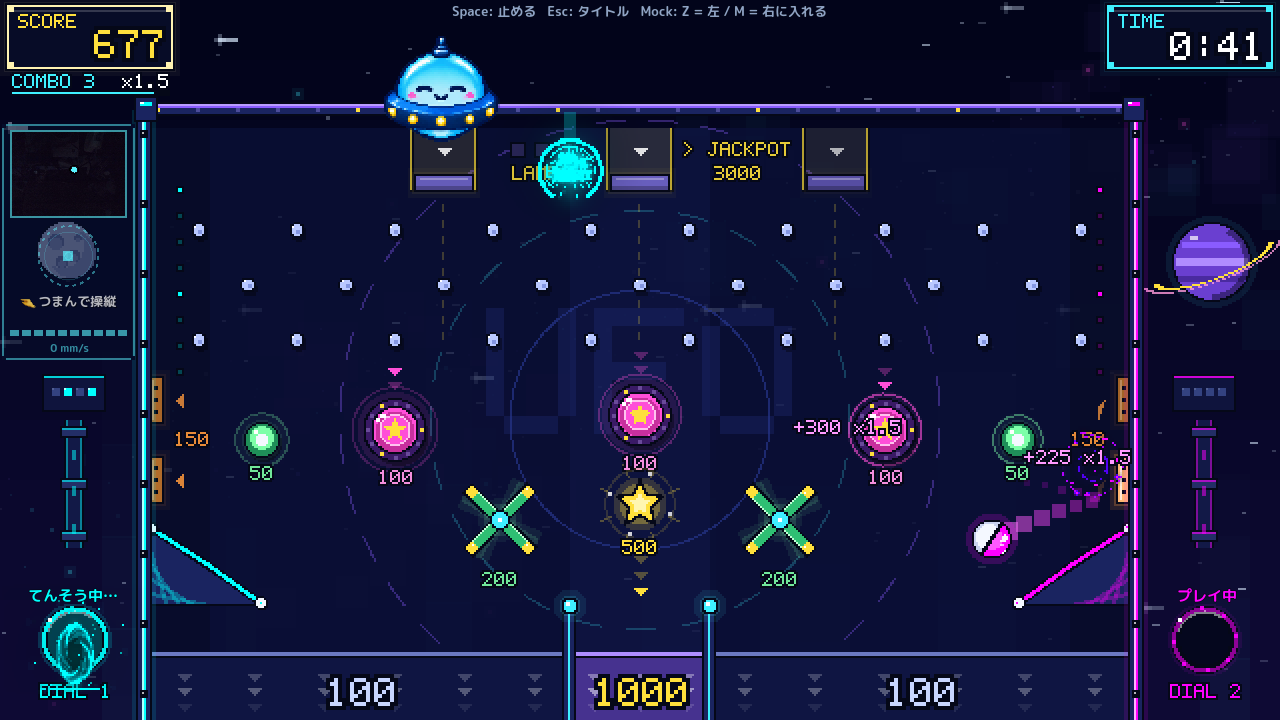
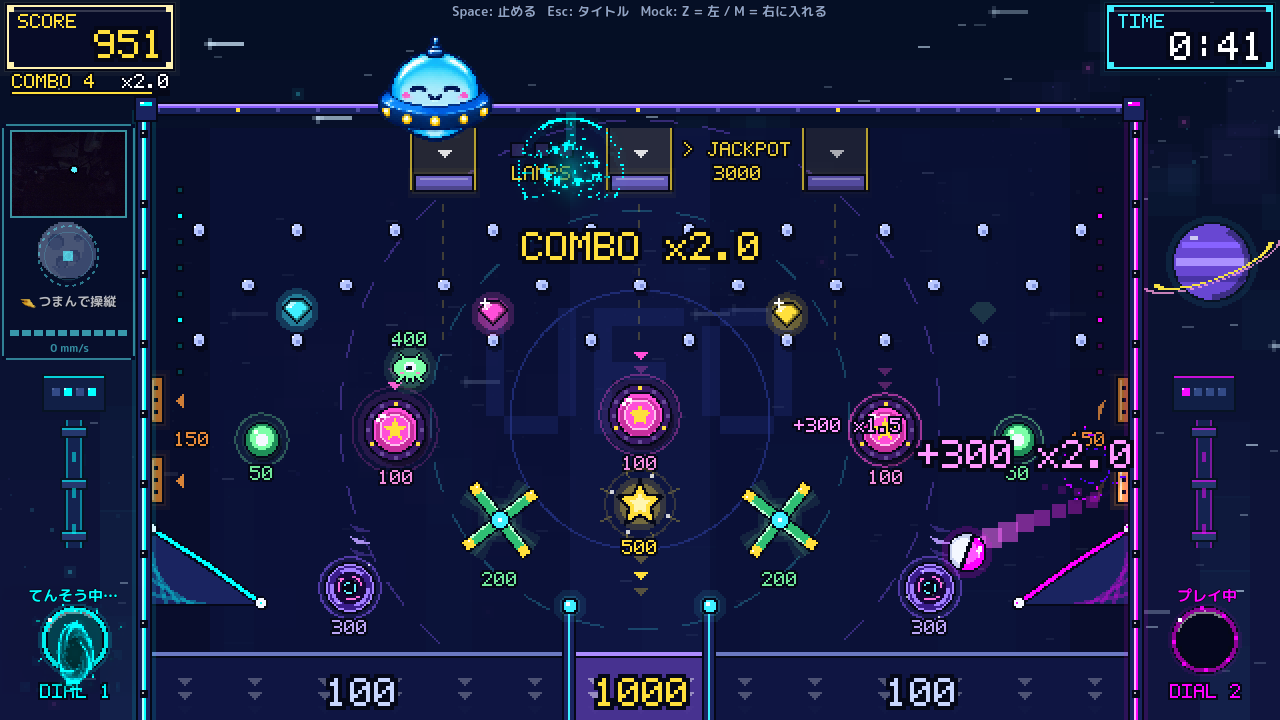
feat: gems, a drifting alien and warp holes on the score game's field, in the UFO's dots; the HUD no longer drops out when the picture shakes (#141)
- gems (4, each its own colour, taken once and back after 10 s), a one-eyed alien that walks
  across between the pins and the bumpers (back after 5 s), and a warp hole above each side
  goal that holds a capsule and shoots it back up (once per capsule, so it always gets down)
- their pictures are rows of letters, one letter = one dot, drawn in the 640 x 360 canvas
- score table: gem 100, alien 400, warp 300 (tuning values; they build the combo)
- fix: the HUD and its drawing had no size under the CanvasLayer, so the score and clock
  panels vanished for a frame when the layer shook; they have the screen's size now

diff --git a/docs/game_mode_spec.md b/docs/game_mode_spec.md
@@ -58,6 +58,9 @@
 | 小バンパー ×2 | (262, 440) (1018, 440)。壁ぎわの緑の小さいバンパー |
 | 壁のターゲット ×4 | 左右の壁の y = 400 / 480。当たると 6 秒点灯（表示だけ） |
 | スリングショット ×2 | 下の左右の斜面（壁の y = 530 から内側 110 px、y = 605 まで）。当たると斜め上・内向きにはじく |
+| 宝石 ×4 | y = 312、x = 297 / 493 / 787 / 983（ピンの最下段のすぐ上）。当たり判定だけで、カプセルを止めない。取ると 10 秒消える |
+| 宇宙人 | y = 372 付近を x = 230〜1050 で 9 秒かけて往復する。当たり判定だけ。つかまえると 5 秒消える |
+| ワープホール ×2 | (350, 588) (930, 588)。左右のゴールの上。落ちたカプセルを 0.7 秒とどめて、上・内向きに打ち上げる。**1 個のカプセルにつき 1 回だけ**（必ず 15 秒以内に落ちる） |
 | カプセル | 半径 18 px |
 | ゴール | 下端。左（x < 570）・中央（570〜710）・右（> 710） |
 
@@ -75,6 +78,7 @@
 | 盤面の床 | 星が少し透ける暗いパネル。軌道の輪、スイッチから下へのレーン線、バンパーと中央ゴールを指す矢印ランプ、スターの後ろの放射、両脇を流れるランプ、うっすら `UFO` の文字 |
 | 盤面の枠 | 左の壁は Dial 1 の色、右の壁は Dial 2 の色のネオン管（暗い輪郭、ボルト、上の角の金具）。上に UFO が動くレールと流れるランプ |
 | ねらう場所 | 得点するものは**呼吸するように光る**（バンパー・小バンパー・スター・ターゲットの輪、消えているスイッチの矢印、中央ゴール）。それぞれの**得点を横に書く**。スイッチの間に「LAMPS（点いた数）→ JACKPOT 3000」 |
+| 宝石・宇宙人・ワープホール | 宝石は色違いのカット石（上下に揺れ、きらめく。取ると輪郭だけ残る）。宇宙人は一つ目の小さなドット絵で、足を動かし、進む方を見る。ワープホールは光の腕が回り込む黒い穴で、カプセルを吸うと速く回り、打ち上げるとき白く光る。絵は文字の並びで定義したドット絵（`PinballFieldArt.GEM` / `ALIEN`）で、1 文字 = 1 ドット |
 | 当たった瞬間 | ピンは輪、バンパーは膨らんで白く、回転ギミックは残像、スリングショットはゴムが飛び出す、ターゲットは点灯 |
 | ゴール | 下へ流れる矢印。中央はジャックポットのとき黄色く点滅 |
 | カプセル | 暗い縁、上半分がその Dial の色、下半分は白。通った跡に**光の軌跡**（直前の 12 点。コンボで太くなる） |
@@ -143,12 +147,15 @@ OFFLINE → ARMING → READY → ABSORBING → DROPPING → SIMULATING → RETUR
 | 小バンパー | 50 | はじき返す（#141 で追加） |
 | 壁のターゲット | 150 | #141 で追加 |
 | スリングショット | 30 | コンボは増やさない（#141 で追加） |
+| 宝石 | 100 | 取ると 10 秒消える（#141 で追加） |
+| 宇宙人 | 400 | つかまえると 5 秒消える（#141 で追加） |
+| ワープホール | 300 | 入ったときに得点。カプセル 1 個につき 1 回（#141 で追加） |
 | スイッチ | 50 | 3 つ全部点くと **+1500**（3 連スイッチ）。点灯は全カプセルで共有し、そろうと消える |
 | 左 / 右ゴール | 100 | |
 | 中央ゴール | 1000 | |
 | ジャックポット | 3000 | 3 連スイッチ完成から 20 秒以内の中央ゴール（中央ゴールの 1000 の代わり。1 回で消える） |
 
-- **コンボ**: バンパー・回転・スター・スイッチ・小バンパー・壁のターゲットに 2.5 秒以内に続けて当てると連鎖が増える。連鎖 2 以上で ×1.5、4 以上で ×2、6 以上で ×3。ゴールとピンにも倍率がかかる。
+- **コンボ**: バンパー・回転・スター・スイッチ・小バンパー・壁のターゲット・宝石・宇宙人・ワープホールに 2.5 秒以内に続けて当てると連鎖が増える。連鎖 2 以上で ×1.5、4 以上で ×2、6 以上で ×3。ゴールとピンにも倍率がかかる。
 - **連打の抑制**: 同じカプセルが同じ対象で得点するのは 0.4 秒に 1 回。
 - **重複の抑制**: カプセルのゴール得点は 1 回だけ。出口の通知が重なっても、後から古いイベントが来ても二重に得点しない。
 - UFO の位置で落とす場所が変わるので、どのタイミングで Dial に入れるかがねらいどころ（スイッチの真上、中央ゴールの真上）。

diff --git a/docs/test_report.md b/docs/test_report.md
@@ -107,9 +107,10 @@ Godot テスト 46/46、Python 32/32 PASS。追加したテストはいずれも
 
 ## スコアゲームの見た目 Phase 1（2026-11-16、Issue #141）
 
-環境: macOS (Darwin 25.1), Godot 4.7.2。**画面の変更。実機は関係しない**（機器とのやり取り・Dial の状態機械・時計は変えていない）。得点表には新しい対象 3 種（小バンパー 50、壁のターゲット 150、スリングショット 30）を足し、カプセルを半径 18 px にした。日本語フォント（#134）を取り込んだ。
+環境: macOS (Darwin 25.1), Godot 4.7.2。**画面の変更。実機は関係しない**（機器とのやり取り・Dial の状態機械・時計は変えていない）。得点表には新しい対象 6 種（小バンパー 50、壁のターゲット 150、スリングショット 30、宝石 100、宇宙人 400、ワープホール 300）を足し、カプセルを半径 18 px にした。日本語フォント（#134）を取り込んだ。
 
-- Godot 全体 314 件成功（#141 で 12 件追加、#134 のフォント 1 件を取り込み）。追加分: ドット文字、開始待ちのタイトル、Dial の色、品質 `low`、光が自分で消えること、640×360 のキャンバス（UFO と同じドット）、新しい対象の得点・点灯・はじく向き、得点時の弾み（上限あり・自分で止まる・その間も時計は進む・`effects` オフで止まる）、コンボの表示と消え方、軌跡の上限、残り時間で変わる空、ハンド操作の表示が盤面・ゴール・ポート・得点に重ならないこと、閉じるとキャンバスの描画が止まること。既存のスコアゲームのテスト（得点・物理・Dial の状態機械）は変更なしで成功。
+- Godot 全体 316 件成功（#141 で 14 件追加、#134 のフォント 1 件を取り込み）。追加分: ドット文字、開始待ちのタイトル、Dial の色、品質 `low`、光が自分で消えること、640×360 のキャンバス（UFO と同じドット）、新しい対象の得点・点灯・はじく向き、宝石と宇宙人が 1 回だけ得点して戻ること、ワープホールがカプセルをとどめて打ち上げ 1 個につき 1 回だけであること、HUD の描画領域が画面の大きさであること、得点時の弾み（上限あり・自分で止まる・その間も時計は進む・`effects` オフで止まる）、コンボの表示と消え方、軌跡の上限、残り時間で変わる空、ハンド操作の表示が盤面・ゴール・ポート・得点に重ならないこと、閉じるとキャンバスの描画が止まること。既存のスコアゲームのテスト（得点・物理・Dial の状態機械）は変更なしで成功。
 - 画面: 窓ありで `--game-mode-title --hide-debug` と `--game-mode --game-mode-demo --game-mode-seconds 45 --gesture-demo --hide-debug` を `--capture` して確認（残り 16 秒の版で空の色も確認）。Before / After は `docs/images/game_mode/phase1_*.png`。
-- 性能（キャプチャ中、M4）: プレイ中 平均 86〜91 FPS（#141 の前は 98）、物理は 1 ステップ約 0.11 ms。
+- 性能（キャプチャ中、M4）: プレイ中 平均 72〜75 FPS（#141 の前は 98。ドット文字の輪郭と新しいオブジェクトの描画が増えたため）、物理は 1 ステップ約 0.11 ms。
+- 見つけて直した不具合: HUD の描画領域の大きさが 0 のままで、画面が揺れた瞬間にスコアと時計のパネルが 1 フレーム消えることがあった（ハンド操作の模擬で毎回再現 → 修正後は 2 回の実行で 0 回）。
 - 未確認: 遅い機械での速さ（`visual_quality: low` / `effects: false` を用意）、1280×720 以外の縦横比での見え方、新しい対象を入れた得点表のプレイテスト、実物のカメラ映像を出した状態でのハンド操作の表示（模擬の手で確認）。
